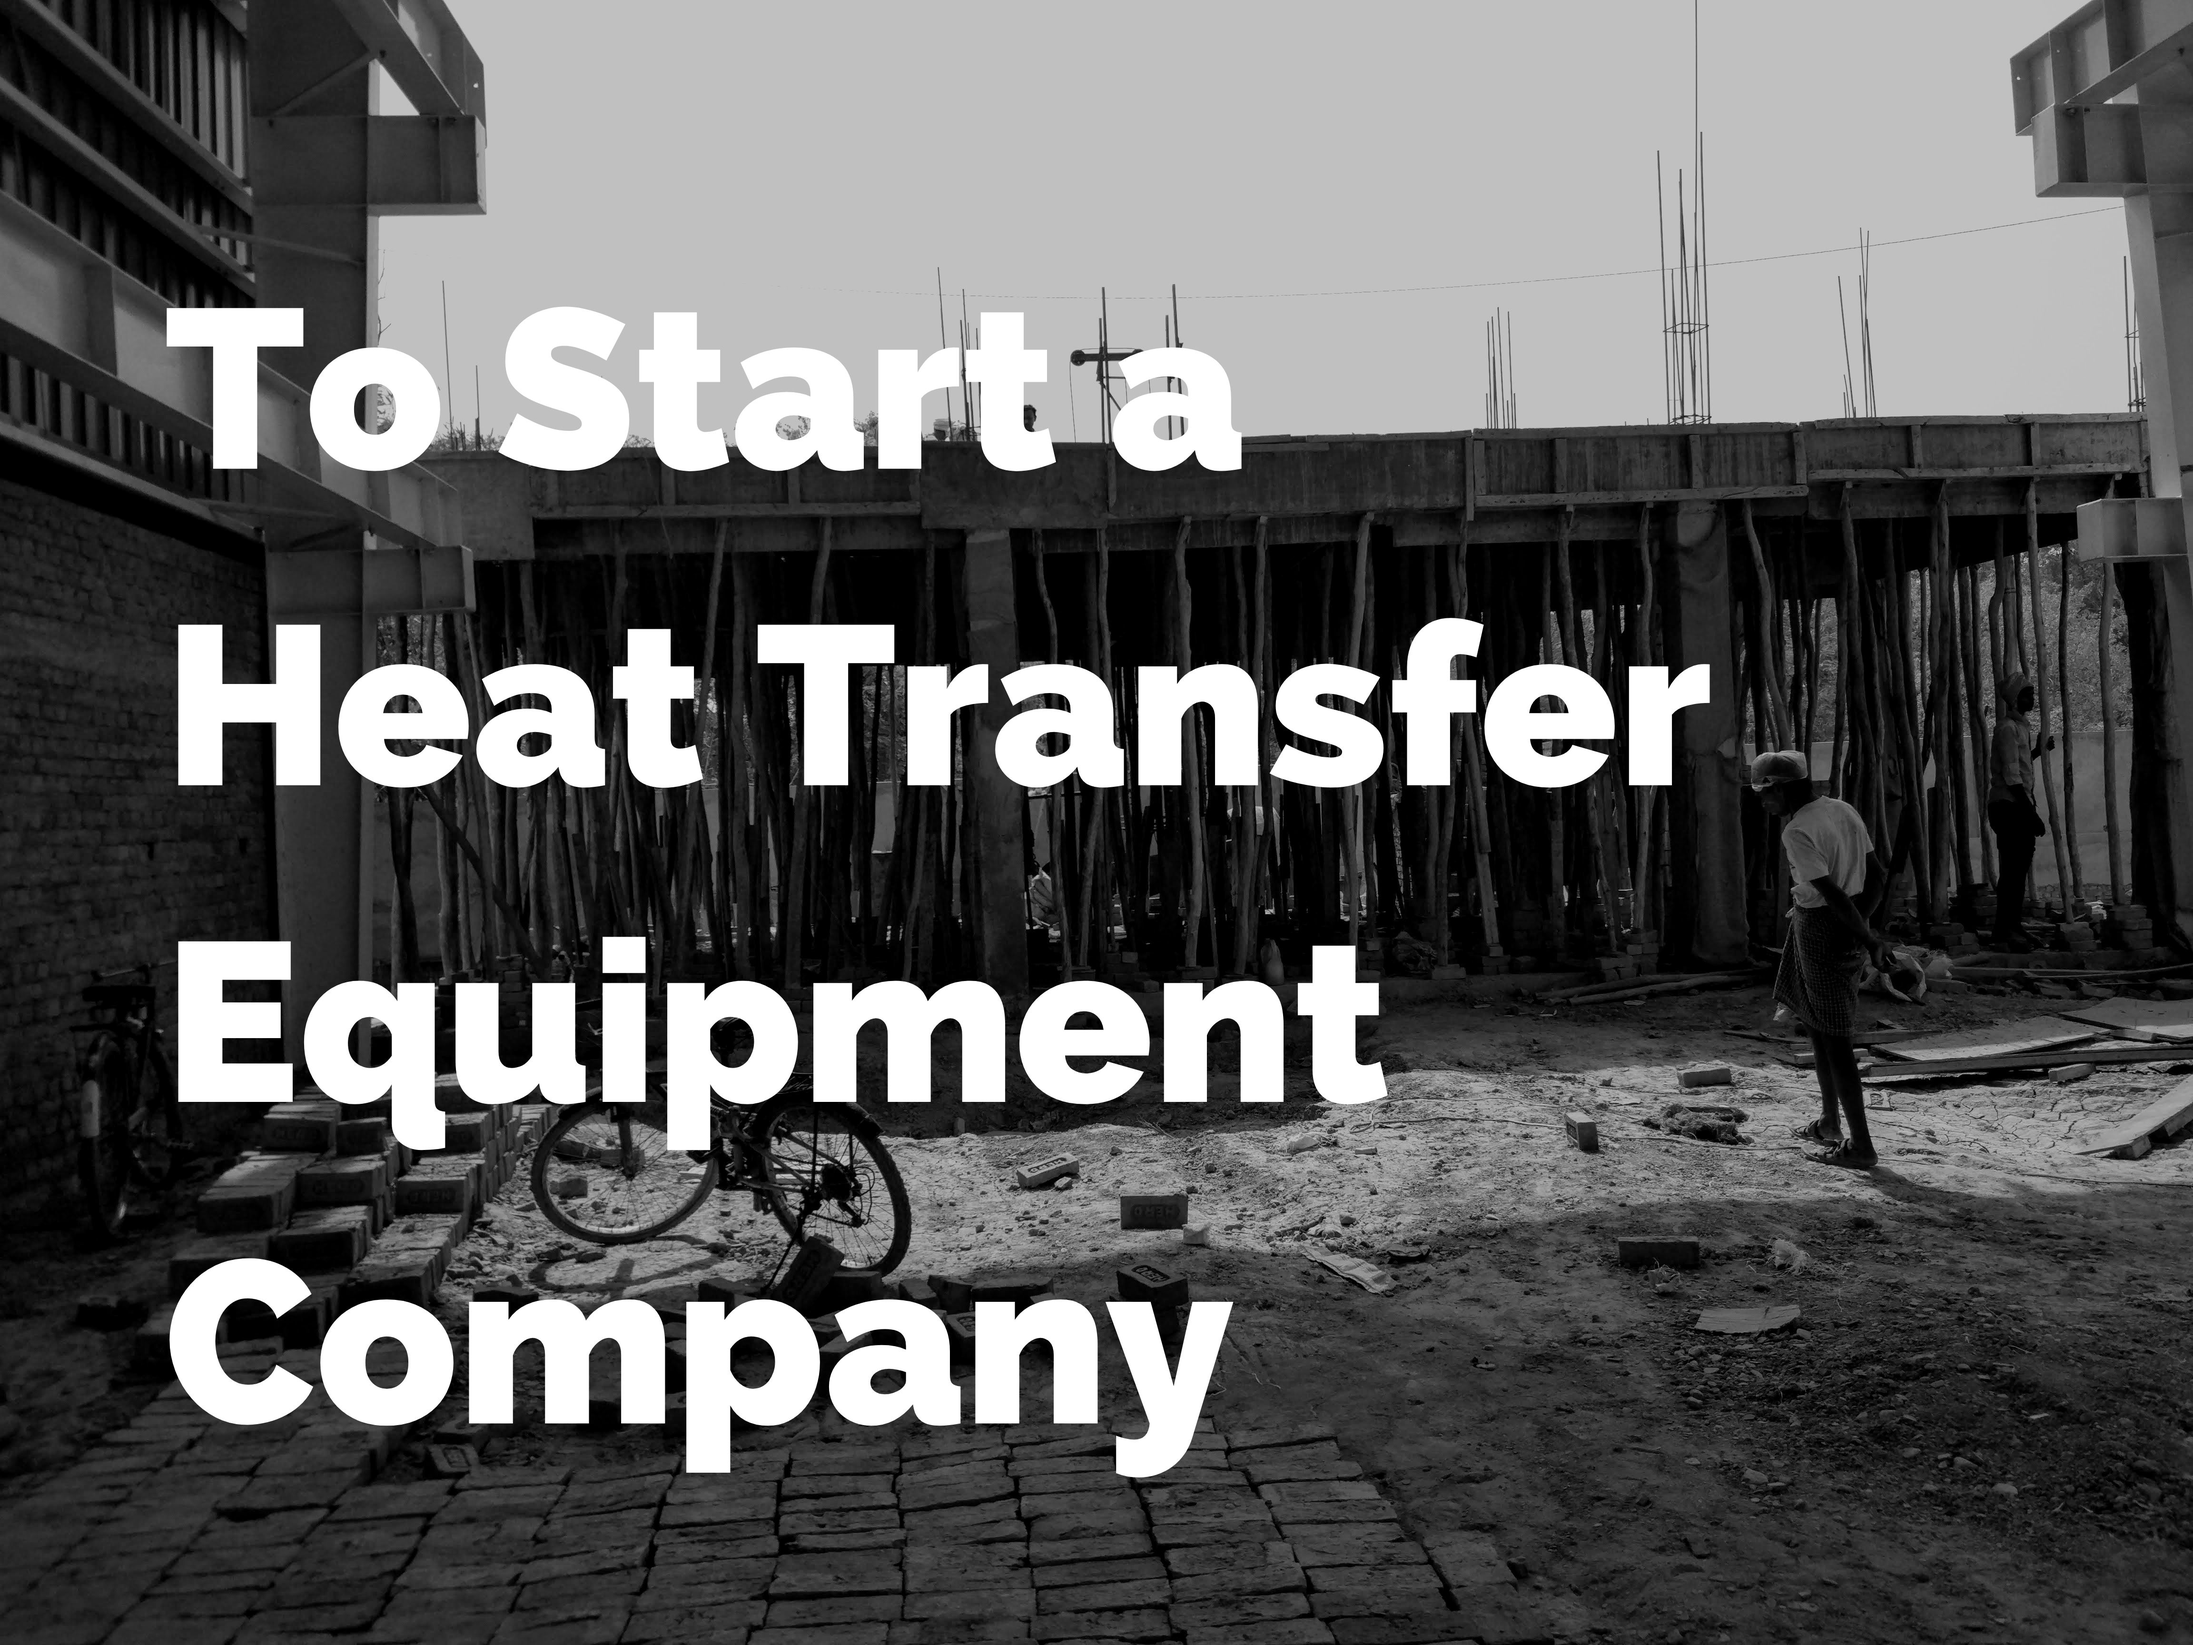
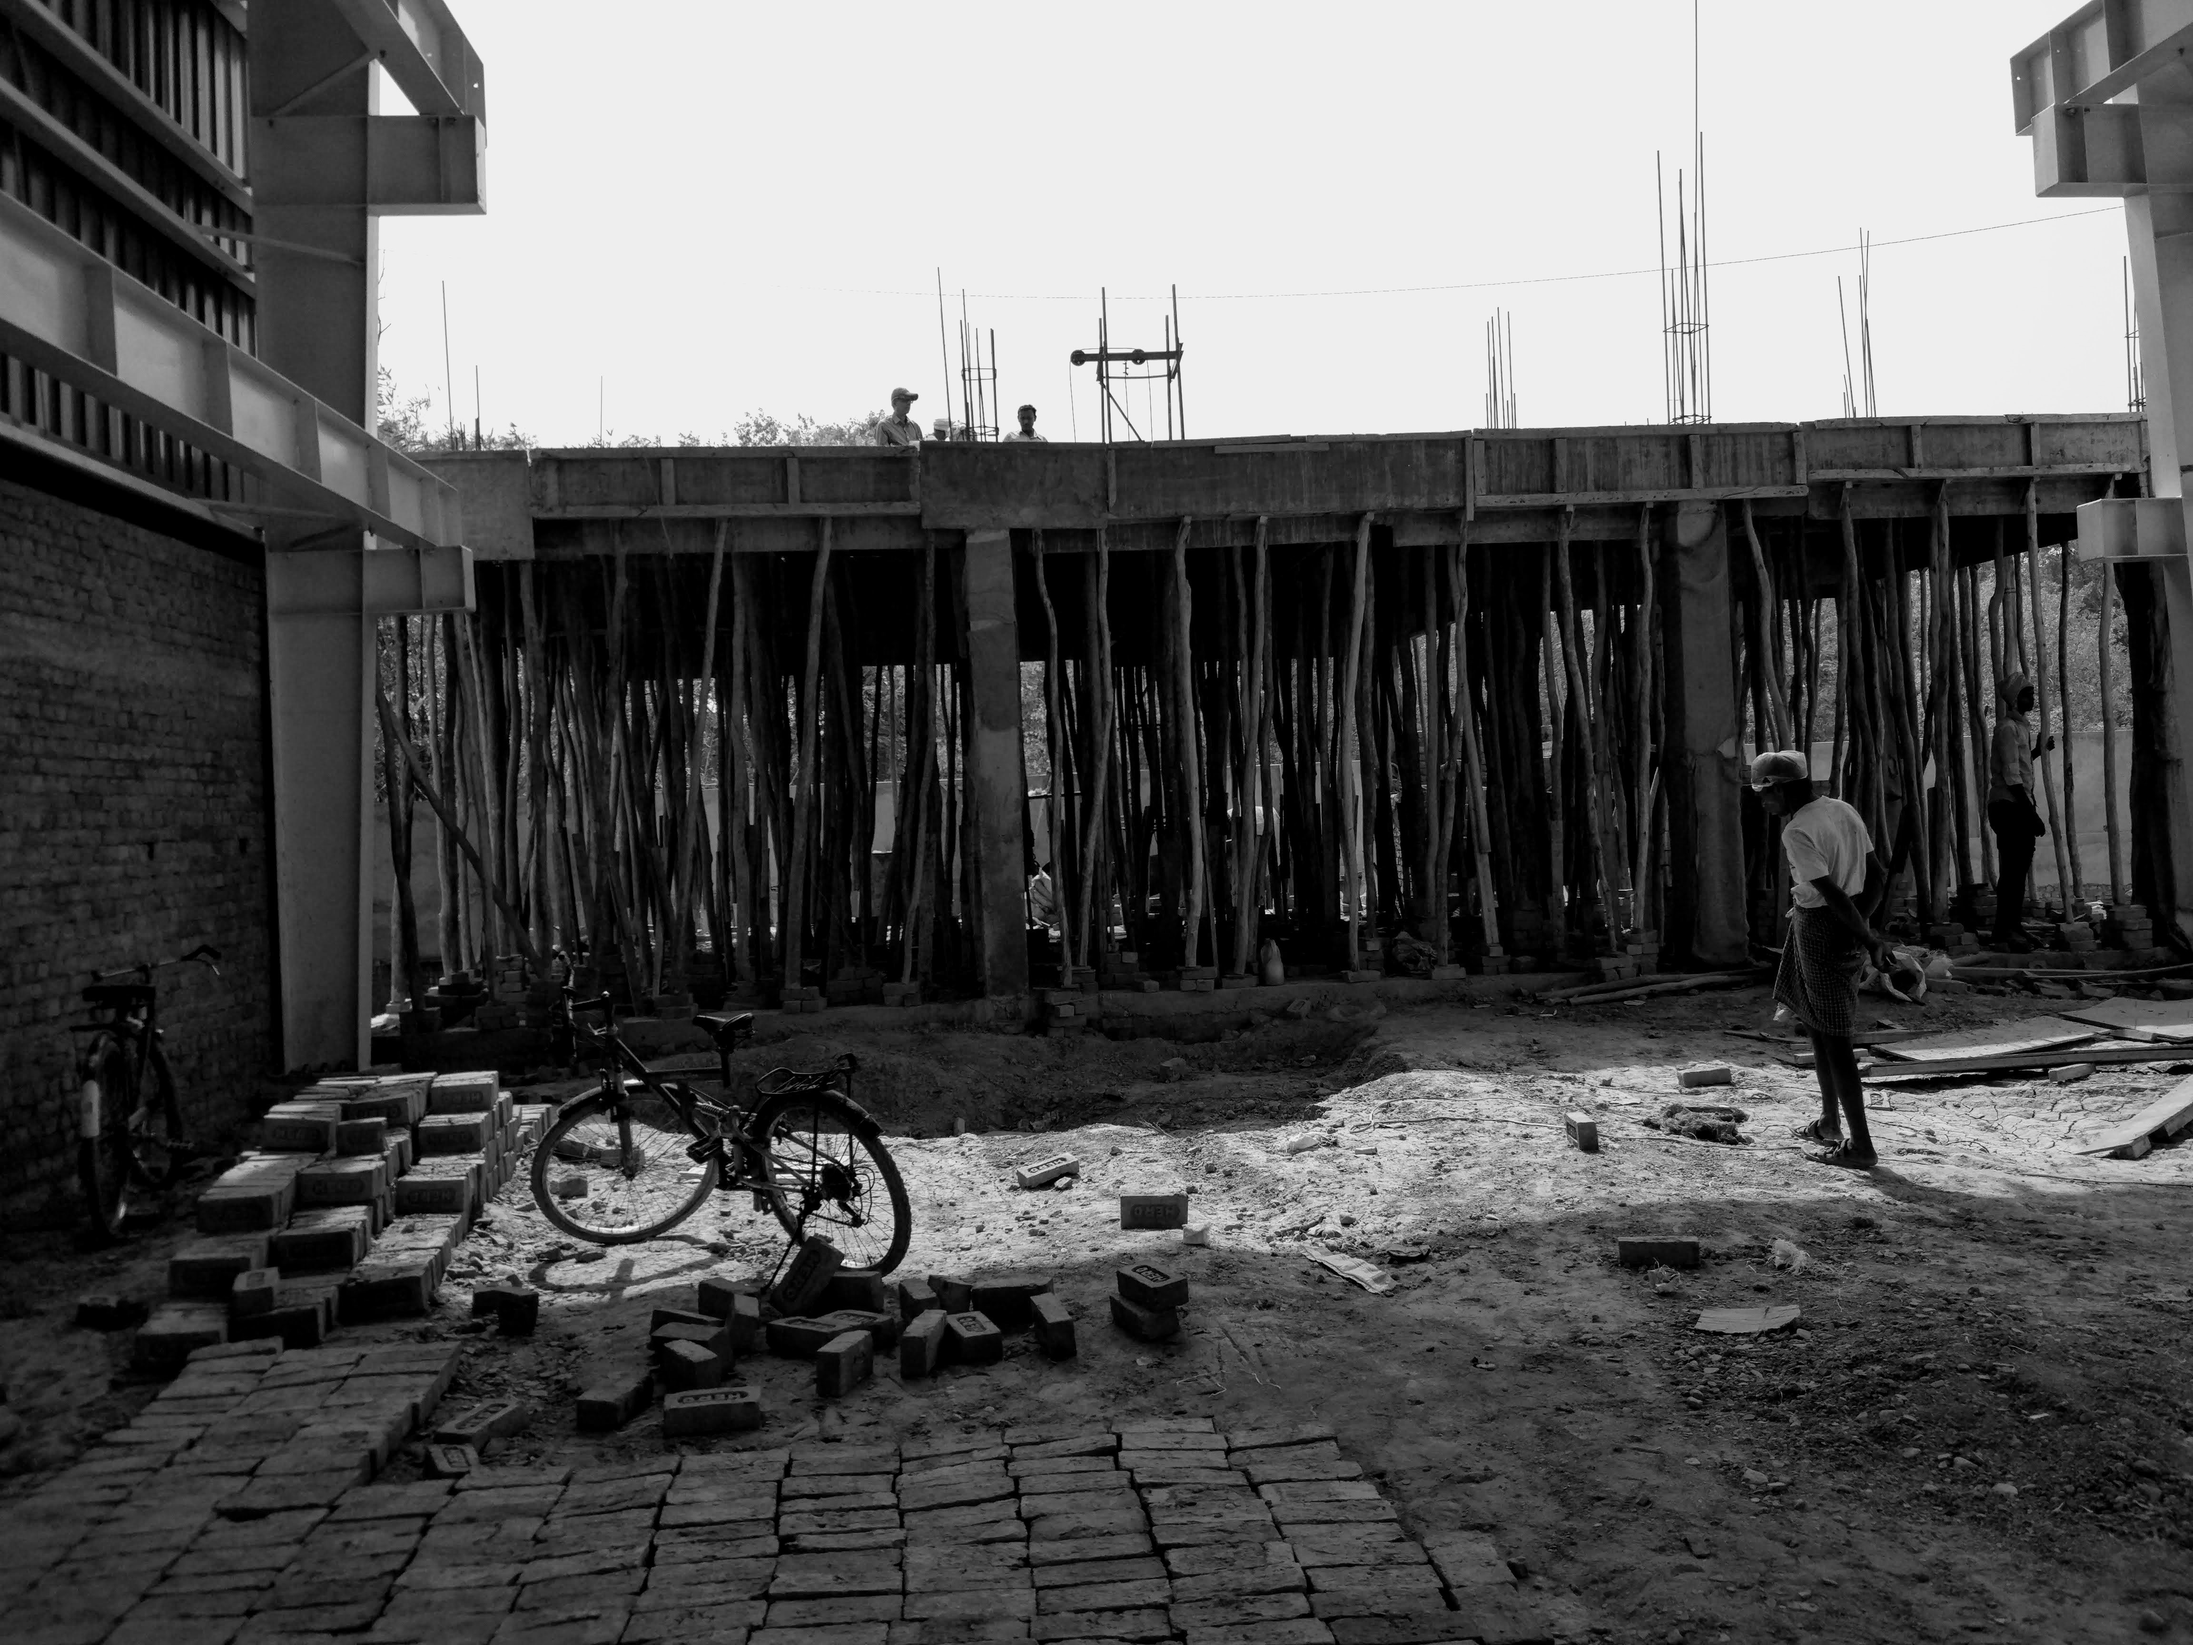
container font to right, timeline adjusted

diff --git a/company.html b/company.html
@@ -191,7 +191,11 @@
 
     
   <section class="page-top-section" style="
-background: 
+background: linear-gradient(
+    0deg,
+    rgba(0, 0, 0, 0.3),
+    rgba(0, 0, 0, 0.3)
+  ), 
   url(img/slider2.jpg);
 background-size: cover;
 height: 500px;
@@ -203,7 +207,7 @@ height: 500px;
 </div>
 </div>
 </div>
-<h1 style="position: relative; top: 20rem; color: white; font-size: 10vh; font-weight: 900; margin-left: 3rem;opacity: 0.7;">Our Company</h1>
+<h1 style="position: relative; top: 20rem; color: white; font-size: 10vh; padding-left: 5%; font-weight: 900; margin-left: 3rem;opacity: 0.7;">Our Company</h1>
 </section>
     
   <!-- TABS -->
@@ -301,6 +305,9 @@ height: 500px;
                                           <h5 class="title"> PLAN</h5>
                                           <div class="service_thumb">
                                             <img class="img-fluid" src="img/ac1.jpg" alt="" style="width: 170px; border-radius: 10%; padding-bottom: 0%;">
+                                            <p class="description" style="line-height: 120%; padding-top: 1%">
+                                              To start a heat tranfer<br> equipment company.
+                                            </p>
                                         </div>
                                           
                                       
@@ -323,6 +330,7 @@ height: 500px;
                                           <h5 class="title"></h5>
                                           <div class="service_thumb">
                                             <img class="img-fluid" src="img/ac2.JPG" alt="" style="width: 170px; border-radius: 10%; padding-bottom: 0%;">
+                                            <p style="line-height: 120%; padding-top: 1%">The year of Incorporation.</p>
                                         </div>
                                           
                                       </div>
@@ -343,9 +351,9 @@ height: 500px;
                                       <div class="timeline-content">
                                           <h5 class="title">SHTE</h5>
                                           <div class="service_thumb">
-                                            <img class="img-fluid" src="img/ac3.jpg" alt="" style="width: 270px; border-radius: 10%; padding-bottom: 0%;">
+                                            <img class="img-fluid" src="img/ac3.jpg" alt="" style="width: 170px; border-radius: 10%; padding-bottom: 0%;">
                                         </div>
-                                          <p class="description">
+                                          <p class="description" style="line-height: 120%; padding-top: 1%">
                                             India's Best Heat <br> 
                                             Tranfer Testing 
                                             Facility
@@ -370,7 +378,7 @@ height: 500px;
                                           <div class="service_thumb">
                                             <img class="img-fluid" src="img/ac4.jpg" alt="" style="width: 170px; border-radius: 10%; padding-bottom: 0%;">
                                         </div>
-                                          <p class="description">
+                                          <p class="description" style="line-height: 120%; padding-top: 1%">
                                             Developed and Supplied entire <br>
                                             Range of Heat equipment to <br>
                                             BLW, Varanasi
@@ -394,7 +402,7 @@ height: 500px;
                                         <div class="service_thumb">
                                           <img class="img-fluid" src="img/ac5.jpg" alt="" style="width: 170px; border-radius: 10%; padding-bottom: 0%;">
                                       </div>
-                                        <p class="description">
+                                        <p class="description" style="line-height: 120%; padding-top: 1%">
                                           Opening of Varanasi Unit
                                           
                                         </p>
@@ -418,7 +426,7 @@ height: 500px;
                                         <div class="service_thumb">
                                           <img class="img-fluid" src="img/ac6.JPG" alt="" style="width: 170px; border-radius: 10%; padding-bottom: 0%;">
                                       </div>
-                                        <p class="description">
+                                        <p class="description" style="line-height: 120%; padding-top: 1%">
                                           Change of Management <br> and Company rebranding.
                               
                                         </p>
@@ -442,7 +450,7 @@ height: 500px;
                                         <div class="service_thumb">
                                           <img class="img-fluid" src="img/ac7.jpg" alt="" style="width: 170px; border-radius: 10%; padding-bottom: 0%;">
                                       </div>
-                                        <p class="description">
+                                        <p class="description" style="line-height: 120%; padding-top: 1%">
                                           Pening of Chakan Unit
                                           
                                         </p>

diff --git a/people.html b/people.html
@@ -204,7 +204,7 @@
   </div>
   </div>
   </div>
-  <h1 style="position: relative; top: 20rem; color: white; font-size: 10vh; font-weight: 900; margin-left: 3rem;opacity: 0.6;">Our People</h1>
+  <h1 style="position: relative; top: 20rem; color: white; font-size: 10vh; padding-left: 5%; font-weight: 900; margin-left: 3rem;opacity: 0.6;">Our People</h1>
   </section>
 
      <!-- TABS -->

diff --git a/products.html b/products.html
@@ -207,7 +207,7 @@ height: 500px;
       </div>
     </div>
     <h1
-      style="position: relative; top: 20rem; color: white; font-size: 10vh; font-weight: 900; margin-left: 3rem;opacity: 0.5;">
+      style="position: relative; top: 20rem; color: white; font-size: 10vh; padding-left: 5%; font-weight: 900; margin-left: 3rem;opacity: 0.5;">
       Our Products</h1>
   </section>
 

diff --git a/expertise.html b/expertise.html
@@ -192,7 +192,7 @@
   </div>
   </div>
   </div>
-  <h1 style="position: relative; top: 20rem; color: white; font-size: 10vh; font-weight: 900; margin-left: 3rem;opacity: 0.7;">Our Expertise</h1>
+  <h1 style="position: relative; top: 20rem; color: white; font-size: 10vh; padding-left: 5%; font-weight: 900; margin-left: 3rem;opacity: 0.7;">Our Expertise</h1>
   </section>
 
 

diff --git a/css/style.css b/css/style.css
@@ -830,7 +830,7 @@ nav .searchbar input[type="text"].active {
 .main-timeline .date-content {
   width: 50%;
   float: left;
-  margin-top: 22px;
+  
   position: relative
 }
 
